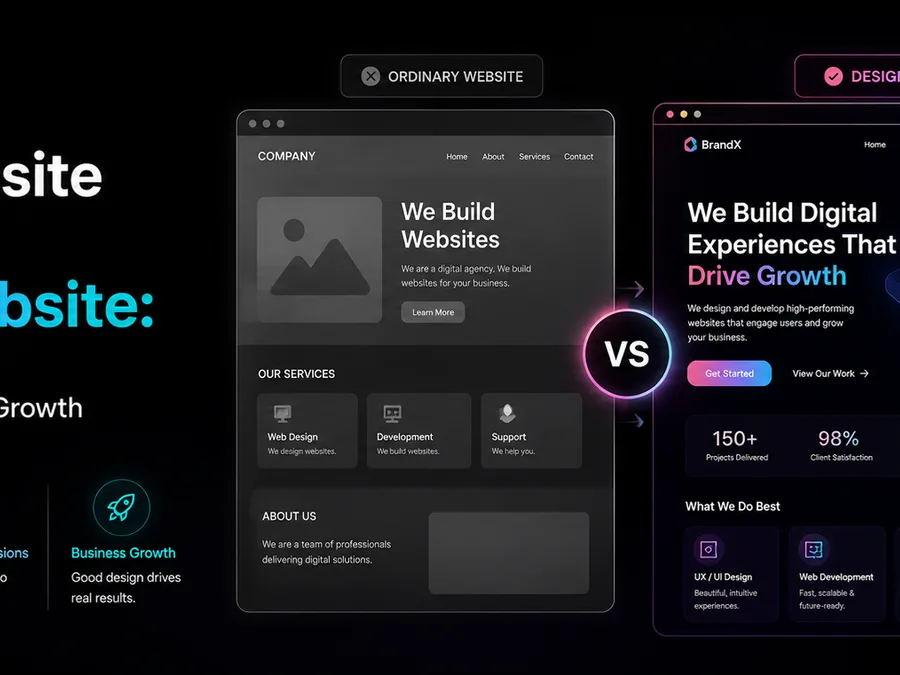
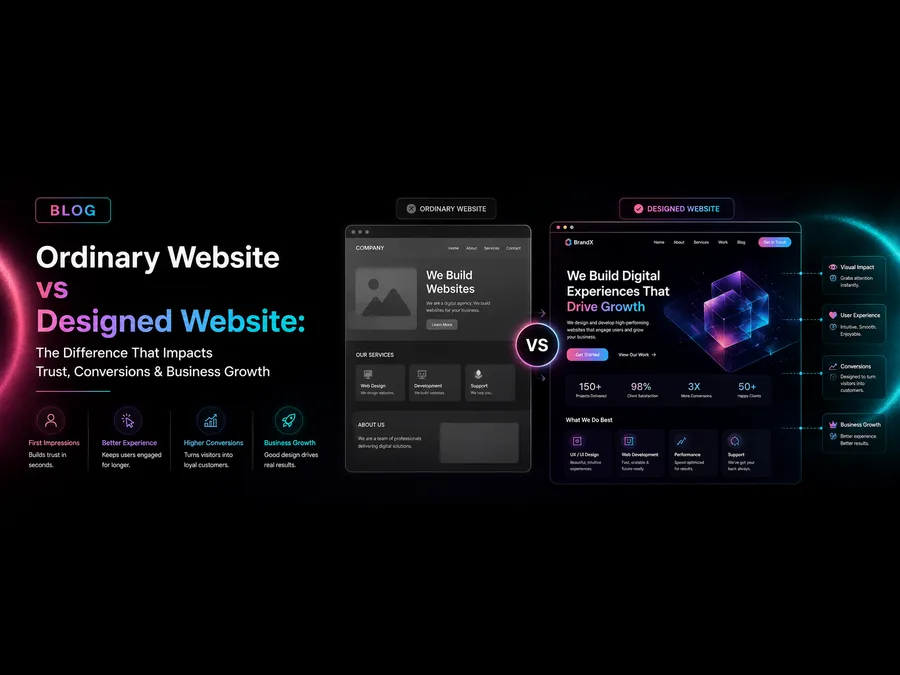
Fix blog listing thumbnails and add WebP everywhere on blog images
The listing-page cards for the 3 newer posts (Vibe Coding, Why UX
Matters, Ordinary vs Designed Website) were showing a centre-cropped
thumbnail that cut headline text off on both edges — the source
banners are ~2.7:1 and the card box is 4:3, so any crop clips the
edges since the headline spans nearly the full width. Regenerated
those thumbnails with letterboxing (contain, black background
matching the card's own dark theme) instead of cropping, so the full
banner — and all its text — is visible.

Also regenerated the WebP detail-hero image for those same 3 posts
at full quality, and added WebP versions (with <picture> fallback)
for the other 3 posts' listing thumbnails, so every blog image on the
site now ships a WebP variant.

diff --git a/blog.html b/blog.html
@@ -342,7 +342,7 @@
                     <a href="blog-detail-shopify-vs-woocommerce" style="text-decoration:none;">
                         <div class="blog-card">
                             <div class="thumb-wrap thumb-1">
-                                <img src="assets/images/blog-shopify-listing.jpg" alt="Shopify vs WooCommerce vs WordPress comparison graphic">
+                                <picture><source srcset="assets/images/blog-shopify-listing.webp" type="image/webp"><img src="assets/images/blog-shopify-listing.jpg" alt="Shopify vs WooCommerce vs WordPress comparison graphic"></picture>
                             </div>
                             <div class="card-meta">
                                 <span class="badge-tag bloglist-subtext">Strategy</span>
@@ -379,7 +379,7 @@
                     <a href="blog-detail-ecommerce-ux-mistakes" style="text-decoration:none;">
                         <div class="blog-card">
                             <div class="thumb-wrap thumb-2">
-                                <img src="assets/images/blog-uxmistakes-listing.jpg" alt="E-commerce UX mistakes graphic with phone app mockups">
+                                <picture><source srcset="assets/images/blog-uxmistakes-listing.webp" type="image/webp"><img src="assets/images/blog-uxmistakes-listing.jpg" alt="E-commerce UX mistakes graphic with phone app mockups"></picture>
                             </div>
                             <div class="card-meta">
                                 <span class="badge-tag bloglist-subtext">UI/UX</span>
@@ -416,7 +416,7 @@
                     <a href="blog-detail-website-speed-conversion" style="text-decoration:none;">
                         <div class="blog-card">
                             <div class="thumb-wrap thumb-3">
-                                <img src="assets/images/blog-speed-listing.jpg" alt="The Real Cost of a Slow Website graphic">
+                                <picture><source srcset="assets/images/blog-speed-listing.webp" type="image/webp"><img src="assets/images/blog-speed-listing.jpg" alt="The Real Cost of a Slow Website graphic"></picture>
                             </div>
                             <div class="card-meta">
                                 <span class="badge-tag bloglist-subtext">Web Design</span>
